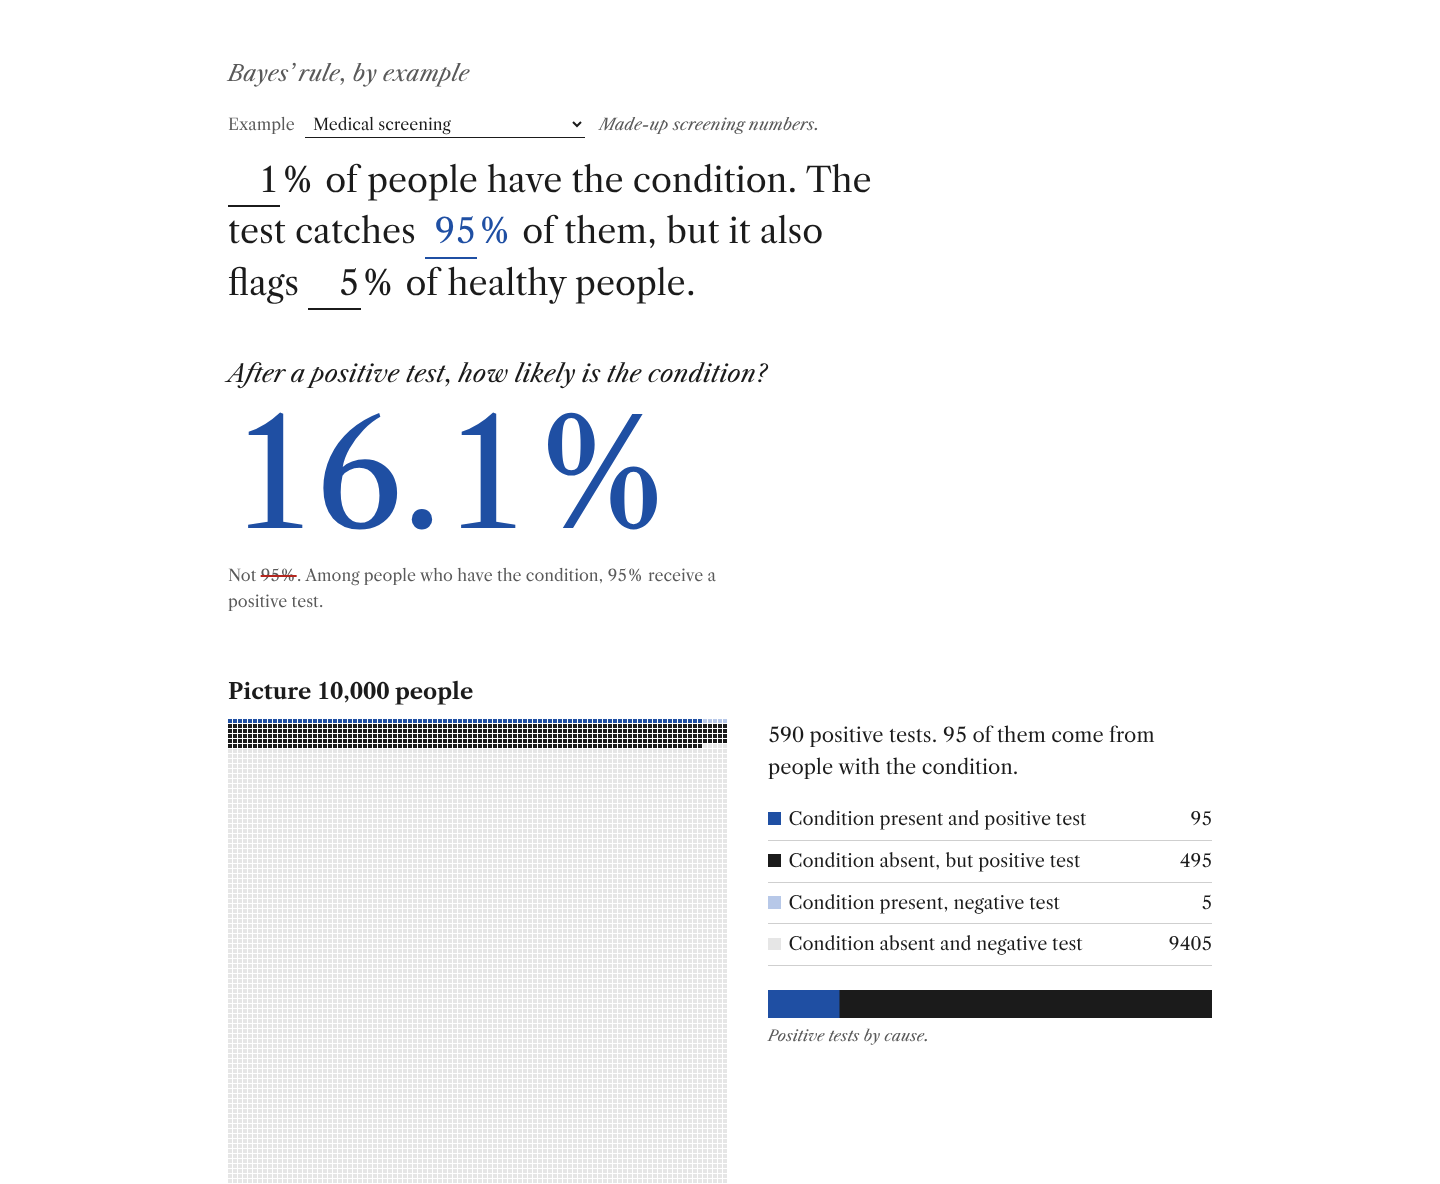
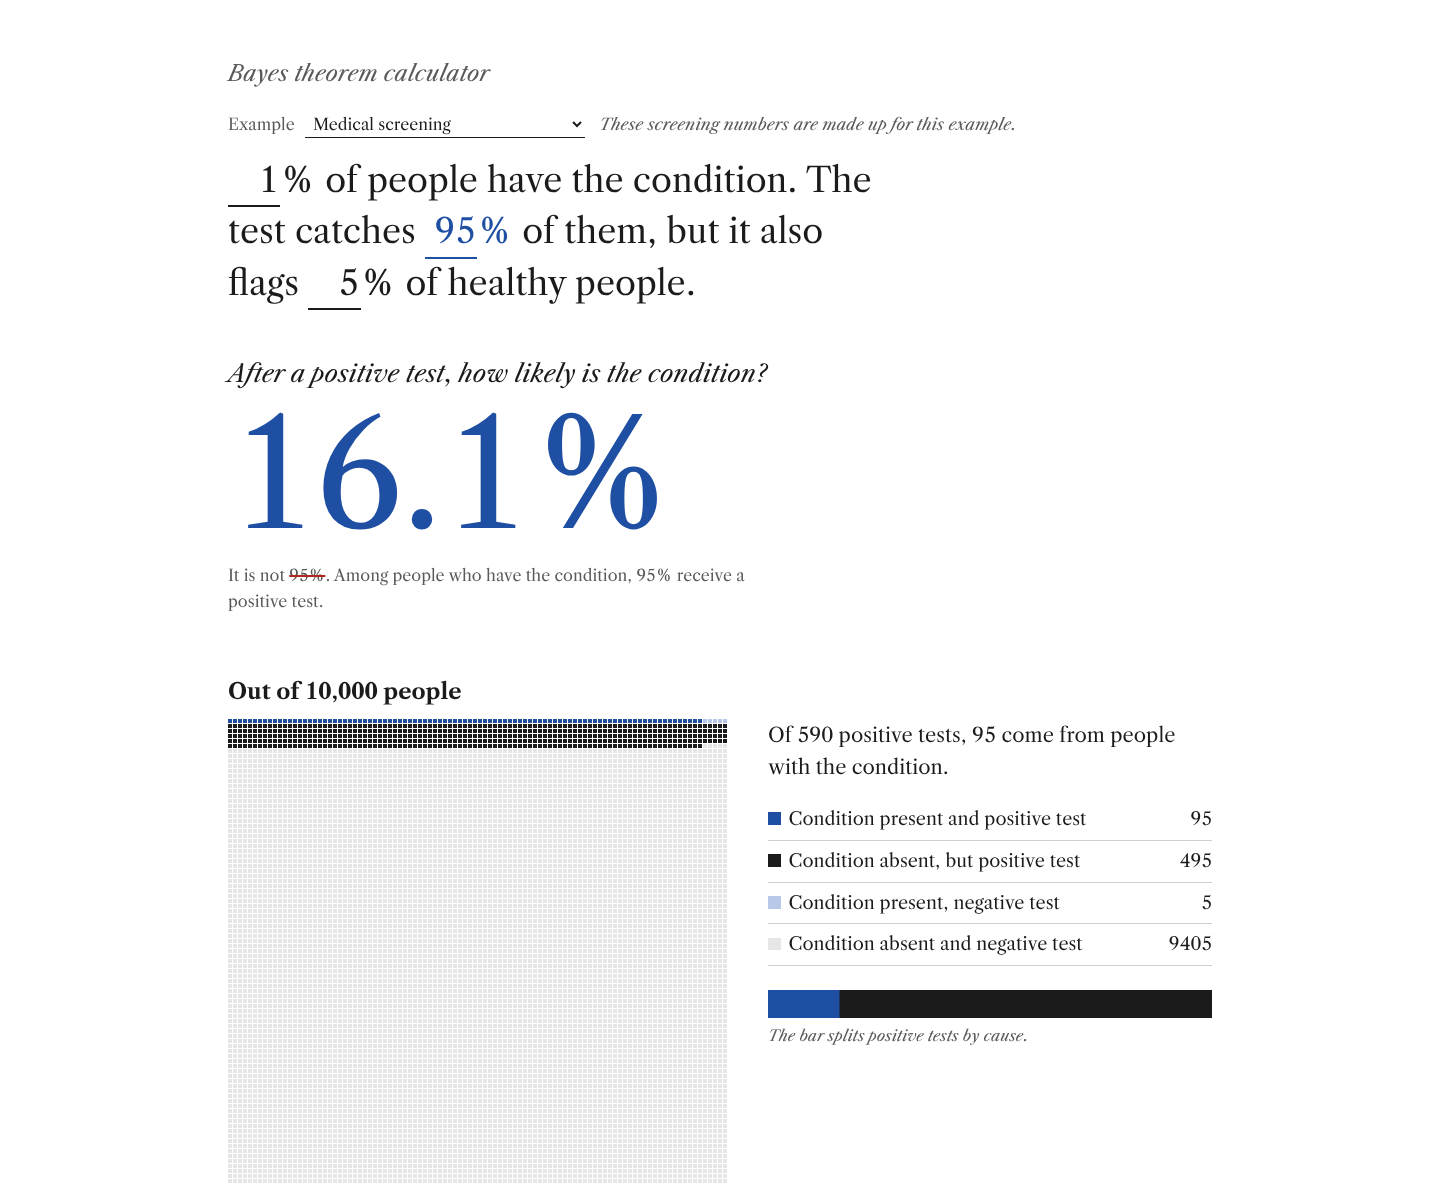
Write project text as sentences and retake screenshots
Turn fragment blurbs, ledes and captions into sentences, and retake all
project screenshots from the updated apps.

diff --git a/index.html b/index.html
@@ -14,7 +14,7 @@
       <div class="page-shell identity">
         <div>
           <h1>Omar Sabouni</h1>
-          <p class="identity-role">Computer Engineer | Robotics, Embedded Systems &amp; Applied AI</p>
+          <p class="identity-role">Computer engineer working on robotics, embedded systems and applied AI.</p>
         </div>
         <nav aria-label="Contact">
           <a href="mailto:omarasabouni@gmail.com">Email</a>
@@ -34,7 +34,7 @@
               </a>
               <div class="project-summary">
                 <h3><a href="/projects/inspect-flow/">InspectFlow</a></h3>
-                <p>Defect inspection on a simulated conveyor, done with OpenCV rules and with a small CNN trained in PyTorch. In poor light the rules make the right call on 46% of parts and the CNN on all of them, at 18 ms a frame on one CPU core.</p>
+                <p>InspectFlow checks parts on a simulated conveyor with OpenCV rules and with a small CNN I trained in PyTorch. In poor light the rules make the right call on 46% of parts and the CNN on all of them, at 18 ms a frame on one CPU core.</p>
               </div>
             </article>
           </li>
@@ -45,7 +45,7 @@
               </a>
               <div class="project-summary">
                 <h3><a href="/projects/robot-replay-studio/">Robot Replay Studio</a></h3>
-                <p>A browser-local TypeScript and Three.js tool that keeps a 3D robot scene, incidents, timeline, and signal plots on one replay clock. Ten detectors are covered by 141 tests and a 200,000-sample validation run.</p>
+                <p>Robot Replay Studio is a TypeScript and Three.js tool that runs in the browser and keeps a 3D robot scene, incidents, timeline, and signal plots on one replay clock. Ten detectors are covered by 141 tests and a 200,000-sample validation run.</p>
               </div>
             </article>
           </li>
@@ -56,7 +56,7 @@
               </a>
               <div class="project-summary">
                 <h3><a href="/projects/telemetry-link/">TelemetryLink</a></h3>
-                <p>A dependency-free C++20 streaming decoder that preserves partial frames and recovers after noise, invalid lengths, or CRC failures. It covers 30 parser edge cases and a two-million-frame synthetic benchmark.</p>
+                <p>TelemetryLink is a dependency-free C++20 streaming decoder that keeps partial frames and recovers after noise, invalid lengths, or CRC failures. It covers 30 parser edge cases and a two-million-frame synthetic benchmark.</p>
               </div>
             </article>
           </li>
@@ -67,7 +67,7 @@
               </a>
               <div class="project-summary">
                 <h3><a href="/projects/curvature-lab/">Curvature Lab</a></h3>
-                <p>A browser tool for selecting a point on one of four analytic parametric surfaces and inspecting its Gaussian, mean, and principal curvatures.</p>
+                <p>Curvature Lab lets you pick a point on one of four parametric surfaces and see its Gaussian, mean, and principal curvatures.</p>
               </div>
             </article>
           </li>
@@ -79,35 +79,35 @@
           </header>
           <ol class="compact-project-list">
             <li data-project="megaminx">
-              <div><a class="compact-project-name" href="/projects/megaminx/">Megaminx top-edge model</a><p>Shortest-path explorer for five top-layer edges under the F and S generators.</p></div>
+              <div><a class="compact-project-name" href="/projects/megaminx/">Megaminx top-edge model</a><p>It finds shortest paths for five top-layer edges under the F and S moves.</p></div>
               <span class="project-language">TypeScript</span>
             </li>
             <li data-project="ledger-lite">
-              <div><a class="compact-project-name" href="/projects/ledger-lite/">LedgerLite</a><p>Double-entry ledger with idempotent posting, linked reversals, and reconciliation controls.</p></div>
+              <div><a class="compact-project-name" href="/projects/ledger-lite/">LedgerLite</a><p>It is a double-entry ledger with idempotent posting, linked reversals, and bank reconciliation.</p></div>
               <span class="project-language">Python</span>
             </li>
             <li data-project="bayes-visualizer">
-              <div><a class="compact-project-name" href="/projects/bayes-visualizer/">Bayes theorem calculator</a><p>Posterior, odds, expected-count, and natural-frequency views for the same update.</p></div>
+              <div><a class="compact-project-name" href="/projects/bayes-visualizer/">Bayes theorem calculator</a><p>It shows one update as a posterior, as odds, and as expected counts.</p></div>
               <span class="project-language">JavaScript</span>
             </li>
             <li data-project="edgebench">
-              <div><a class="compact-project-name" href="/projects/edgebench/">InferQual</a><p>Compares PyTorch and ONNX Runtime FP32/INT8 latency and output similarity.</p></div>
+              <div><a class="compact-project-name" href="/projects/edgebench/">InferQual</a><p>It compares the latency and output of PyTorch and ONNX Runtime at FP32 and INT8.</p></div>
               <span class="project-language">Python</span>
             </li>
             <li data-project="fleetwatch">
-              <div><a class="compact-project-name" href="/projects/fleetwatch/">FleetWatch</a><p>Local telemetry board for an eight-robot warehouse fleet.</p></div>
+              <div><a class="compact-project-name" href="/projects/fleetwatch/">FleetWatch</a><p>It is a local telemetry board for an eight-robot warehouse fleet.</p></div>
               <span class="project-language">Python</span>
             </li>
             <li data-project="kalman_state_estimation">
-              <div><a class="compact-project-name" href="/projects/kalman_state_estimation/">2D estimator comparison</a><p>Kalman, alpha–beta, and moving-average tracking on the same motion.</p></div>
+              <div><a class="compact-project-name" href="/projects/kalman_state_estimation/">2D estimator comparison</a><p>It tracks the same motion with a Kalman filter, an alpha–beta filter, and a moving average.</p></div>
               <span class="project-language">TypeScript</span>
             </li>
             <li data-project="numbrix-visualizer">
-              <div><a class="compact-project-name" href="/projects/numbrix-visualizer/">Numbrix Solver Visualizer</a><p>Constraint-solver trace viewer for propagation, branching, rollback, and candidate domains.</p></div>
+              <div><a class="compact-project-name" href="/projects/numbrix-visualizer/">Numbrix Solver Visualizer</a><p>It replays each step of a constraint solver, including its guesses and rollbacks.</p></div>
               <span class="project-language">TypeScript</span>
             </li>
             <li data-project="productpulse">
-              <div><a class="compact-project-name" href="/projects/productpulse/">ProductPulse</a><p>DuckDB product analytics for activity, activation, retention, and cohorts.</p></div>
+              <div><a class="compact-project-name" href="/projects/productpulse/">ProductPulse</a><p>It reports product activity, activation, retention, and cohorts from DuckDB.</p></div>
               <span class="project-language">Python</span>
             </li>
           </ol>

diff --git a/projects/inspect-flow/index.html b/projects/inspect-flow/index.html
@@ -13,7 +13,7 @@
     <header class="document-header"><div class="page-shell"><a class="back-link" href="/">← Back to projects</a></div></header>
     <main id="main-content" class="page-shell project-document" tabindex="-1">
       <h1>InspectFlow</h1>
-      <p class="lede">Pass or reject decisions for parts on a conveyor, made two ways: with hand-tuned OpenCV rules, and with a small CNN I trained in PyTorch and run on the CPU through ONNX.</p>
+      <p class="lede">InspectFlow passes or rejects parts on a conveyor in two ways: with hand-tuned OpenCV rules, and with a small CNN I trained in PyTorch and run on the CPU through ONNX.</p>
       <dl class="definition-grid">
         <div><dt>Rules, poor light</dt><dd>46% right</dd></div>
         <div><dt>CNN, poor light</dt><dd>100% right</dd></div>
@@ -21,7 +21,7 @@
       </dl>
       <figure class="artifact video-artifact">
         <video src="/media/inspect-flow-demo.mp4" poster="/media/inspect-flow-demo.jpg" width="640" height="718" controls muted loop playsinline preload="metadata" aria-label="The classical rules and the CNN running on the same poor-light conveyor scene"></video>
-        <figcaption>Same scene, same frames. The rules miss three of the seven parts and mislabel two. The CNN gets all seven.</figcaption>
+        <figcaption>Both detectors see the same frames. The rules miss three of the seven parts and mislabel two, and the CNN gets all seven right.</figcaption>
       </figure>
       <p>The belt is simulated, so every decision at the gate can be checked against the part's true label. That separates the two mistakes a real line cares about: a bad part shipped and a good part scrapped.</p>
       <h2>Twenty test scenes</h2>

diff --git a/projects/telemetry-link/index.html b/projects/telemetry-link/index.html
@@ -13,7 +13,7 @@
     <header class="document-header"><div class="page-shell"><a class="back-link" href="/">← Back to projects</a></div></header>
     <main id="main-content" class="page-shell project-document" tabindex="-1">
       <h1>TelemetryLink</h1>
-      <p class="lede">A dependency-free C++20 library and command-line decoder for heartbeat, IMU, and motor-status frames arriving in arbitrary chunks.</p>
+      <p class="lede">TelemetryLink is a dependency-free C++20 library and command-line tool that decodes heartbeat, IMU, and motor-status frames arriving in chunks of any size.</p>
       <dl class="definition-grid">
         <div><dt>Runtime dependencies</dt><dd>None</dd></div>
         <div><dt>Parser edge cases</dt><dd>30</dd></div>
@@ -38,9 +38,9 @@
       <h2>Report</h2>
       <figure class="artifact artifact-compact">
         <a href="/images/projects/telemetry-link.png"><img src="/images/projects/telemetry-link.png" width="1440" height="1265" alt="TelemetryLink report listing decoded records, selected raw JSON, parser recovery counters, and faults" /></a>
-        <figcaption>The report for a damaged stream: one block per record, then the records and counters.</figcaption>
+        <figcaption>This is the report for a damaged stream. It shows one block per record, then the records and the counters.</figcaption>
       </figure>
-      <h2>Build, decode, render</h2>
+      <h2>Build and run</h2>
       <pre tabindex="0" role="region" aria-label="TelemetryLink build commands"><code>cmake -S . -B build -DCMAKE_BUILD_TYPE=Release
 cmake --build build --parallel
 python3 tools/simulate.py --scenario mixed --count 18 --output mixed.bin

diff --git a/projects/robot-replay-studio/index.html b/projects/robot-replay-studio/index.html
@@ -13,7 +13,7 @@
     <header class="document-header"><div class="page-shell"><a class="back-link" href="/">← Back to projects</a></div></header>
     <main id="main-content" class="page-shell project-document" tabindex="-1">
       <h1>Robot Replay Studio</h1>
-      <p class="lede">A browser incident replay that keeps a faulty run and healthy baseline synchronized across the scene, incident list, timeline, signals, and selected sample.</p>
+      <p class="lede">Robot Replay Studio replays robot incidents in the browser and keeps a faulty run and a healthy baseline in sync across the scene, incident list, timeline, and signals.</p>
       <dl class="definition-grid">
         <div><dt>Incident detectors</dt><dd>10</dd></div>
         <div><dt>Automated tests</dt><dd>141</dd></div>
@@ -22,7 +22,7 @@
       <p>The default 45-second East Loop case is <code>RPL-042</code>. Timeline or incident selection moves every view to the same time.</p>
       <figure class="artifact">
         <a href="/images/projects/robot-replay-studio.png"><img src="/images/projects/robot-replay-studio.png" width="1440" height="1000" alt="Robot Replay Studio showing the RPL-042 candidate and baseline, incident list, scene, timeline, signals, and selected detector details" /></a>
-        <figcaption>RPL-042 with the faulty run and the healthy baseline side by side.</figcaption>
+        <figcaption>RPL-042 shows the faulty run and the healthy baseline side by side.</figcaption>
       </figure>
       <h2>RPL-042 sequence</h2>
       <table class="data-table" tabindex="0" aria-label="RPL-042 incident sequence">

diff --git a/projects/curvature-lab/index.html b/projects/curvature-lab/index.html
@@ -13,11 +13,11 @@
     <header class="document-header"><div class="page-shell"><a class="back-link" href="/">← Back to projects</a></div></header>
     <main id="main-content" class="page-shell project-document" tabindex="-1">
       <h1>Curvature Lab</h1>
-      <p class="lede">A browser tool for selecting a point on one of four analytic parametric surfaces and inspecting its local curvature.</p>
+      <p class="lede">Curvature Lab lets you pick a point on one of four parametric surfaces and see its local curvature.</p>
       <p>The torus, sphere, saddle (hyperbolic paraboloid), and catenoid each provide analytic first and second derivatives. The app derives the fundamental forms and reports Gaussian curvature <code>K</code>, mean curvature <code>H</code>, and principal curvatures <code>k₁</code> and <code>k₂</code>.</p>
       <figure class="artifact">
         <a href="/images/projects/curvature-lab.png"><img src="/images/projects/curvature-lab.png" width="1440" height="900" alt="Curvature Lab showing a Gaussian-curvature torus, signed legend, selected point, parameter controls, and local curvature readouts" /></a>
-        <figcaption>Gaussian curvature on a torus: negative on the inside, positive on the outside.</figcaption>
+        <figcaption>Gaussian curvature on a torus is negative on the inside and positive on the outside.</figcaption>
       </figure>
       <h2>What changes with the selected point</h2>
       <ul>

diff --git a/projects/ledger-lite/index.html b/projects/ledger-lite/index.html
@@ -13,11 +13,11 @@
     <header class="document-header"><div class="page-shell"><a class="back-link" href="/">← Back to projects</a></div></header>
     <main id="main-content" class="page-shell project-document" tabindex="-1">
       <h1>LedgerLite</h1>
-      <div class="notice">Demo only: no logins and no real money.</div>
-      <p class="lede">A FastAPI, PostgreSQL, and React ledger console for transactions, posting rows, reversals, statements, and reconciliation.</p>
+      <div class="notice">This is a demo with no logins and no real money.</div>
+      <p class="lede">LedgerLite is a FastAPI, PostgreSQL, and React console for a ledger’s transactions, posting rows, reversals, statements, and bank reconciliation.</p>
       <figure class="artifact">
         <a href="/images/projects/ledger-lite.png"><img src="/images/projects/ledger-lite.png" width="1365" height="1243" alt="LedgerLite administration console showing AED totals, a recent transaction, journal entries, and service state" /></a>
-        <figcaption>Totals, the latest transaction, and journal entries.</figcaption>
+        <figcaption>The Today page shows the ledger totals and the latest entries.</figcaption>
       </figure>
       <table class="data-table" tabindex="0" aria-label="Console sections">
         <thead><tr><th scope="col">Section</th><th scope="col">Records</th><th scope="col">Operations</th></tr></thead>

diff --git a/projects/megaminx/index.html b/projects/megaminx/index.html
@@ -13,7 +13,7 @@
     <header class="document-header"><div class="page-shell"><a class="back-link" href="/">← Back to projects</a></div></header>
     <main id="main-content" class="page-shell project-document" tabindex="-1">
       <h1>Megaminx top-edge model</h1>
-      <p class="lede">A shortest-path explorer for five top-layer edges under two abstract generators, F and S.</p>
+      <p class="lede">This tool finds shortest paths for five top-layer Megaminx edges under two moves, F and S.</p>
       <h2>State space</h2>
       <dl class="definition-grid">
         <div><dt>Structurally valid states</dt><dd>3,840</dd></div>
@@ -23,7 +23,7 @@
       <p>The position <code>[5, 1, 2, 3, 4]</code> is one move (<code>S′</code>) from solved.</p>
       <figure class="artifact artifact-tall">
         <a href="/images/projects/megaminx.png"><img src="/images/projects/megaminx.png" width="1440" height="1000" alt="Megaminx five-edge model with puzzle view, move controls, exact path, and breadth-first layer counts" /></a>
-        <figcaption>The puzzle view, move controls, solution path, and search layers.</figcaption>
+        <figcaption>The app shows the puzzle, the move controls, the solution path, and the search layers.</figcaption>
       </figure>
       <h2>Run</h2>
       <pre tabindex="0" role="region" aria-label="Megaminx setup commands"><code>npm ci

diff --git a/projects/kalman_state_estimation/index.html b/projects/kalman_state_estimation/index.html
@@ -16,14 +16,10 @@
       <p class="lede">The same measurements feed a Kalman filter, alpha–beta filter, and moving average so their trajectories and errors can be compared.</p>
       <figure class="artifact">
         <a href="/images/projects/kalman-state-estimation.png"><img src="/images/projects/kalman-state-estimation.png" width="1440" height="1200" alt="Two-dimensional estimator notebook with configuration controls, a completed trajectory, and synchronized diagnostic charts" /></a>
-        <figcaption>A complete 80-step run.</figcaption>
+        <figcaption>This is a complete 80-step run.</figcaption>
       </figure>
-      <h2>Diagnostics attached to the run</h2>
-      <ul>
-        <li>Trajectory and rolling position error.</li>
-        <li>Posterior covariance, innovation, and normalized innovation squared.</li>
-        <li>Which correction each step bought within a fixed budget.</li>
-      </ul>
+      <h2>What each run records</h2>
+      <p>Each run records the trajectory and rolling position error, the posterior covariance, the innovation and normalized innovation squared, and which correction each step bought within a fixed budget.</p>
       <h2>Develop</h2>
       <pre tabindex="0" role="region" aria-label="Estimator workbench setup commands"><code>npm install
 npm run dev</code></pre>

diff --git a/projects/edgebench/index.html b/projects/edgebench/index.html
@@ -13,7 +13,7 @@
     <header class="document-header"><div class="page-shell"><a class="back-link" href="/">← Back to projects</a></div></header>
     <main id="main-content" class="page-shell project-document" tabindex="-1">
       <h1>InferQual</h1>
-      <p class="lede">A command-line comparison of PyTorch FP32 and ONNX Runtime FP32/INT8 latency and output similarity. It picks the fastest backend whose output matches PyTorch.</p>
+      <p class="lede">InferQual is a command-line tool that compares the latency and output of PyTorch FP32 and ONNX Runtime FP32/INT8. It picks the fastest backend whose output matches PyTorch.</p>
       <pre tabindex="0" role="region" aria-label="Run InferQual"><code>$ inferqual run --device cpu</code></pre>
       <table class="data-table" tabindex="0" aria-label="InferQual results">
         <thead><tr><th scope="col">Runtime</th><th scope="col">p50</th><th scope="col">p95</th><th scope="col">Samples/s</th><th scope="col">Cosine similarity</th></tr></thead>
@@ -23,7 +23,7 @@
           <tr><th scope="row">PyTorch FP32</th><td>1.28 ms</td><td>1.50 ms</td><td>779</td><td>1.0</td></tr>
         </tbody>
       </table>
-      <p>Times depend on the machine.</p>
+      <p>These times depend on the machine.</p>
     </main>
   </body>
 </html>

diff --git a/projects/fleetwatch/index.html b/projects/fleetwatch/index.html
@@ -13,10 +13,10 @@
     <header class="document-header"><div class="page-shell"><a class="back-link" href="/">← Back to projects</a></div></header>
     <main id="main-content" class="page-shell project-document" tabindex="-1">
       <h1>FleetWatch</h1>
-      <p class="lede">A local FastAPI and SQLite console for robot telemetry, health, signal freshness, incidents, and shift controls.</p>
+      <p class="lede">FleetWatch is a local FastAPI and SQLite console that shows each robot’s telemetry, health, and incidents, and replays a shift.</p>
       <figure class="artifact">
         <a href="/images/projects/fleetwatch.png"><img src="/images/projects/fleetwatch.png" width="1440" height="1000" alt="FleetWatch console with an eight-robot roster, facility plan, incident queue, selected-unit telemetry, and shift controls" /></a>
-        <figcaption>The floor plan, showing zones and the selected robot’s route.</figcaption>
+        <figcaption>The floor plan shows zones and the selected robot’s route.</figcaption>
       </figure>
       <h2>Incidents</h2>
       <table class="data-table" tabindex="0" aria-label="FleetWatch incident types">

diff --git a/projects/productpulse/index.html b/projects/productpulse/index.html
@@ -13,10 +13,10 @@
     <header class="document-header"><div class="page-shell"><a class="back-link" href="/">← Back to projects</a></div></header>
     <main id="main-content" class="page-shell project-document" tabindex="-1">
       <h1>ProductPulse</h1>
-      <p class="lede">Local DuckDB product analytics with readable SQL metrics and a Streamlit interface for date, acquisition-channel, and signup-device filters.</p>
+      <p class="lede">ProductPulse computes product metrics in DuckDB with readable SQL and shows them in a Streamlit app you can filter by date, acquisition channel, and signup device.</p>
       <figure class="artifact">
         <a href="/images/projects/productpulse.png"><img src="/images/projects/productpulse.png" width="1440" height="900" alt="ProductPulse native Streamlit application with sidebar filters, four analysis tabs, and daily active users" /></a>
-        <figcaption>Daily activity with channel and device filters.</figcaption>
+        <figcaption>The Activity tab shows daily active users, with channel and device filters.</figcaption>
       </figure>
       <h2>Metric pages</h2>
       <ul>

diff --git a/projects/bayes-visualizer/index.html b/projects/bayes-visualizer/index.html
@@ -16,7 +16,7 @@
       <p class="lede">Three probability inputs update a posterior, expected counts, contingency table, likelihood ratio, odds, and base-rate comparison in the browser.</p>
       <figure class="artifact">
         <a href="/images/projects/bayes-visualizer.png"><img src="/images/projects/bayes-visualizer.png" width="1440" height="1184" alt="Bayes theorem worksheet with medical-screening inputs, a ten-thousand-case population field, posterior result, and collapsed appendices" /></a>
-        <figcaption>The default example: 1% have the condition, the test catches 95% of them and flags 5% of healthy people.</figcaption>
+        <figcaption>In the default example, 1% of people have the condition. The test catches 95% of them and flags 5% of healthy people.</figcaption>
       </figure>
       <h2>Reading the default result</h2>
       <p>For a hypothetical cohort of 10,000, the inputs produce 95 true positives and 495 false positives. Of 590 positive tests, 95 correspond to the condition: <strong>16.1%</strong>.</p>
